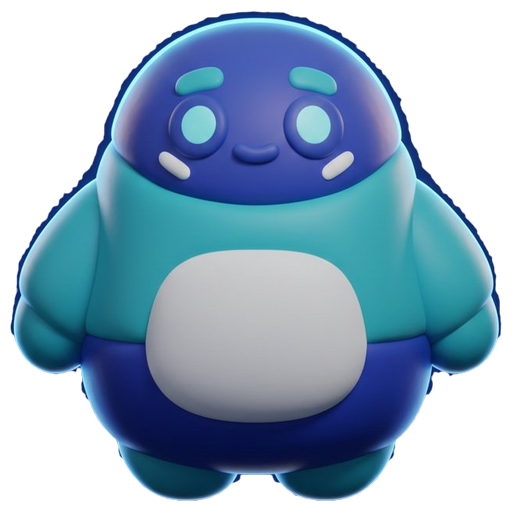
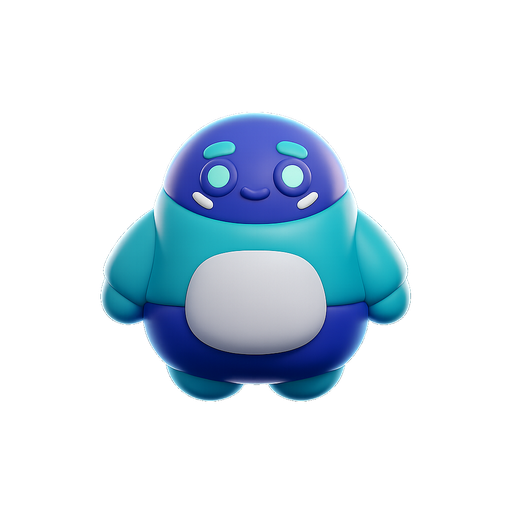
Remove overlay eye-pupils from mascot; update to new transparent artwork
The two dark tracking-pupils PolyPuffScene drew on top of the mascot
were hardcoded to eye positions that no longer matched the artwork, so
they rendered as dark dots at the temples ("ears") instead of on the
eyes. The mascot artwork already contains complete eyes, so the overlay
was redundant - removed the two pupil Views and all their now-dead
supporting code (pupil refs, moveEyes/resetEyes, geometry vars, style).
Drag, tap-wobble, spin, glow, and word-burst are unchanged.

Also swaps in the new transparent mascot artwork (polypuff.png,
polypuff-transparent.png), replacing the versions that had a baked-in
opaque background.

diff --git a/components/PolyPuffScene.js b/components/PolyPuffScene.js
@@ -166,11 +166,6 @@ export default function PolyPuffScene({ size: _ignored }) {
   const glowAnim   = useRef(new Animated.Value(0.6)).current;
   const glowScaleX = useRef(new Animated.Value(0.85)).current;
 
-  const leftPupilX  = useRef(new Animated.Value(0)).current;
-  const leftPupilY  = useRef(new Animated.Value(0)).current;
-  const rightPupilX = useRef(new Animated.Value(0)).current;
-  const rightPupilY = useRef(new Animated.Value(0)).current;
-
   useEffect(() => {
     Animated.loop(Animated.sequence([
       Animated.timing(floatAnim, { toValue: -14, duration: 2000, useNativeDriver: false }),
@@ -185,27 +180,6 @@ export default function PolyPuffScene({ size: _ignored }) {
       Animated.timing(glowScaleX, { toValue: 0.75, duration: 2000, useNativeDriver: false }),
     ])).start();
   }, []);
-
-  const moveEyes = (touchX, touchY) => {
-    const nx = (touchX / size) * 2 - 1;
-    const ny = (touchY / size) * 2 - 1;
-    const MAX = 4;
-    Animated.parallel([
-      Animated.spring(leftPupilX,  { toValue: nx * MAX, useNativeDriver: false, speed: 30, bounciness: 2 }),
-      Animated.spring(leftPupilY,  { toValue: ny * MAX, useNativeDriver: false, speed: 30, bounciness: 2 }),
-      Animated.spring(rightPupilX, { toValue: nx * MAX, useNativeDriver: false, speed: 30, bounciness: 2 }),
-      Animated.spring(rightPupilY, { toValue: ny * MAX, useNativeDriver: false, speed: 30, bounciness: 2 }),
-    ]).start();
-  };
-
-  const resetEyes = () => {
-    Animated.parallel([
-      Animated.spring(leftPupilX,  { toValue: 0, useNativeDriver: false, speed: 10, bounciness: 6 }),
-      Animated.spring(leftPupilY,  { toValue: 0, useNativeDriver: false, speed: 10, bounciness: 6 }),
-      Animated.spring(rightPupilX, { toValue: 0, useNativeDriver: false, speed: 10, bounciness: 6 }),
-      Animated.spring(rightPupilY, { toValue: 0, useNativeDriver: false, speed: 10, bounciness: 6 }),
-    ]).start();
-  };
 
   const triggerWobble = () => {
     wobble.setValue(0);
@@ -255,14 +229,12 @@ export default function PolyPuffScene({ size: _ignored }) {
     PanResponder.create({
       onStartShouldSetPanResponder: () => true,
       onMoveShouldSetPanResponder:  () => true,
-      onPanResponderGrant: (e) => {
+      onPanResponderGrant: () => {
         triggerSquish();
-        moveEyes(e.nativeEvent.locationX, e.nativeEvent.locationY);
       },
       onPanResponderMove: (e, gs) => {
         posX.setValue(Math.max(-80, Math.min(80, gs.dx)));
         posY.setValue(Math.max(-80, Math.min(80, gs.dy)));
-        moveEyes(e.nativeEvent.locationX, e.nativeEvent.locationY);
       },
       onPanResponderRelease: (e, gs) => {
         const speed   = Math.sqrt(gs.vx ** 2 + gs.vy ** 2);
@@ -276,7 +248,6 @@ export default function PolyPuffScene({ size: _ignored }) {
           _burstRef.current?.();
         }
         returnToCenter();
-        resetEyes();
       },
     })
   ).current;
@@ -289,11 +260,6 @@ export default function PolyPuffScene({ size: _ignored }) {
 
   const rotateDeg = rotate.interpolate({ inputRange: [0, 360], outputRange: ['0deg', '360deg'] });
   const wobbleDeg = wobble.interpolate({ inputRange: [-18, 18], outputRange: ['-18deg', '18deg'] });
-
-  const eyeSize    = size * 0.13;
-  const pupilSize  = eyeSize * 0.55;
-  const eyeTop     = size * 0.27;
-  const eyeSpacing = size * 0.17;
 
   return (
     <View
@@ -334,18 +300,7 @@ export default function PolyPuffScene({ size: _ignored }) {
             style={{ width: size, height: size, position: 'absolute' }}
             resizeMode="contain"
           />
-          <Animated.View style={[styles.pupil, {
-            width: pupilSize, height: pupilSize, borderRadius: pupilSize / 2,
-            top: eyeTop + (eyeSize - pupilSize) / 2,
-            left: size / 2 - eyeSpacing - eyeSize / 2 + (eyeSize - pupilSize) / 2,
-            transform: [{ translateX: leftPupilX }, { translateY: leftPupilY }],
-          }]} />
-          <Animated.View style={[styles.pupil, {
-            width: pupilSize, height: pupilSize, borderRadius: pupilSize / 2,
-            top: eyeTop + (eyeSize - pupilSize) / 2,
-            left: size / 2 + eyeSpacing - eyeSize / 2 + (eyeSize - pupilSize) / 2,
-            transform: [{ translateX: rightPupilX }, { translateY: rightPupilY }],
-          }]} />
+          {/* Eyes are drawn into the mascot artwork itself - no overlay pupils. */}
         </View>
       </Animated.View>
 
@@ -364,7 +319,6 @@ export default function PolyPuffScene({ size: _ignored }) {
 
 const styles = StyleSheet.create({
   container: { alignSelf: 'center', alignItems: 'center', justifyContent: 'flex-end' },
-  pupil: { position: 'absolute', backgroundColor: 'rgba(0, 20, 60, 0.45)' },
   glow: {
     height: 18, borderRadius: 999, backgroundColor: '#00d4ff',
     shadowColor: '#00d4ff', shadowOffset: { width: 0, height: 0 },